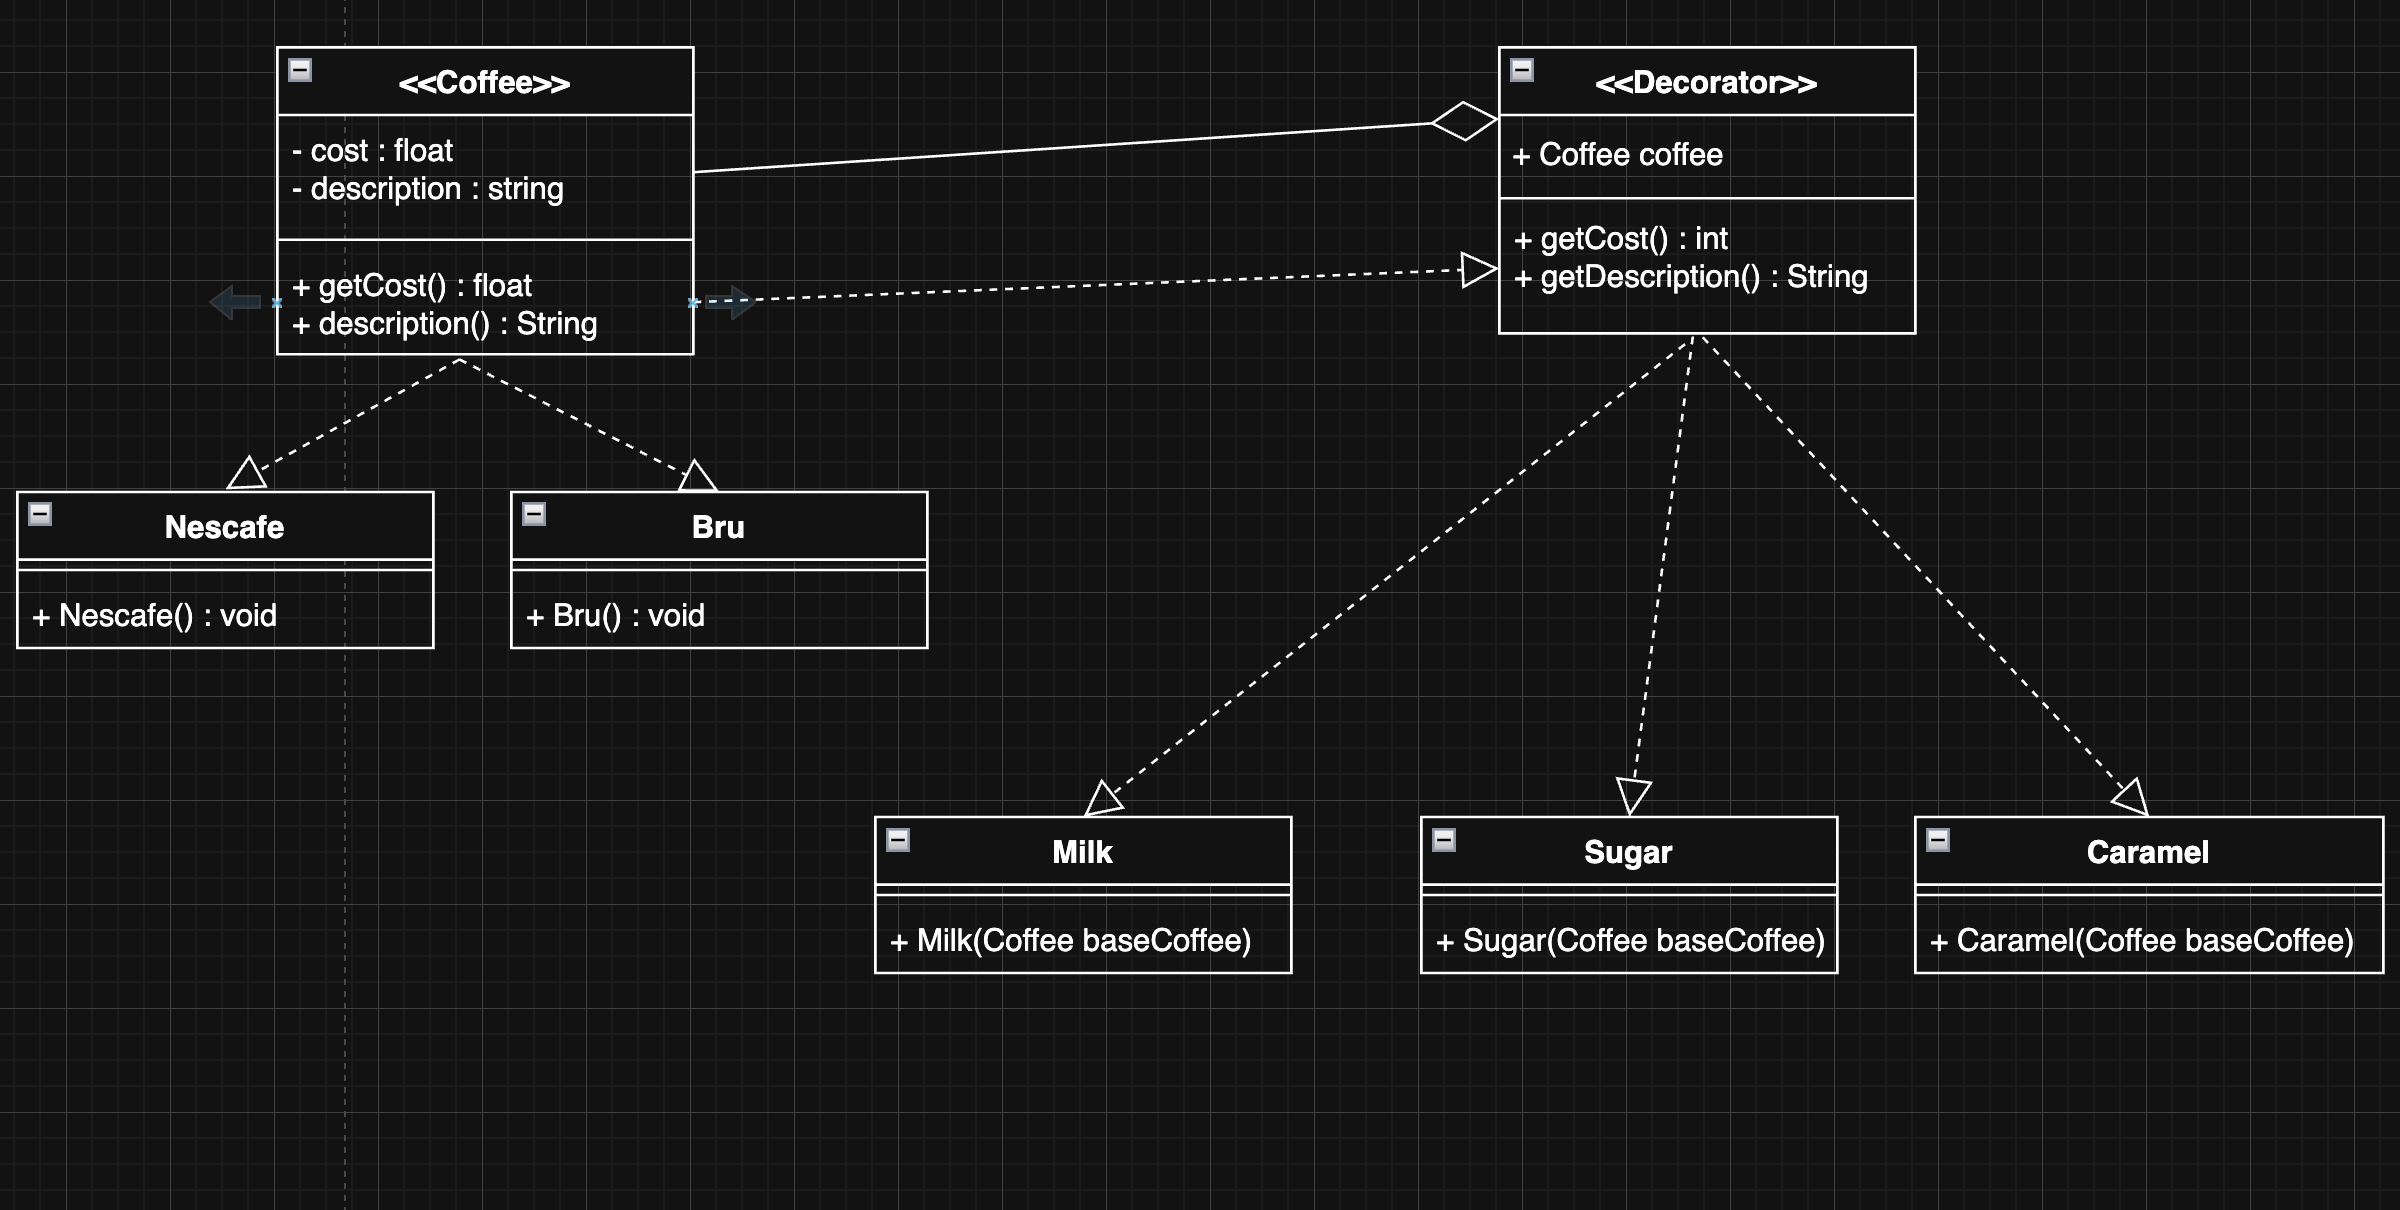
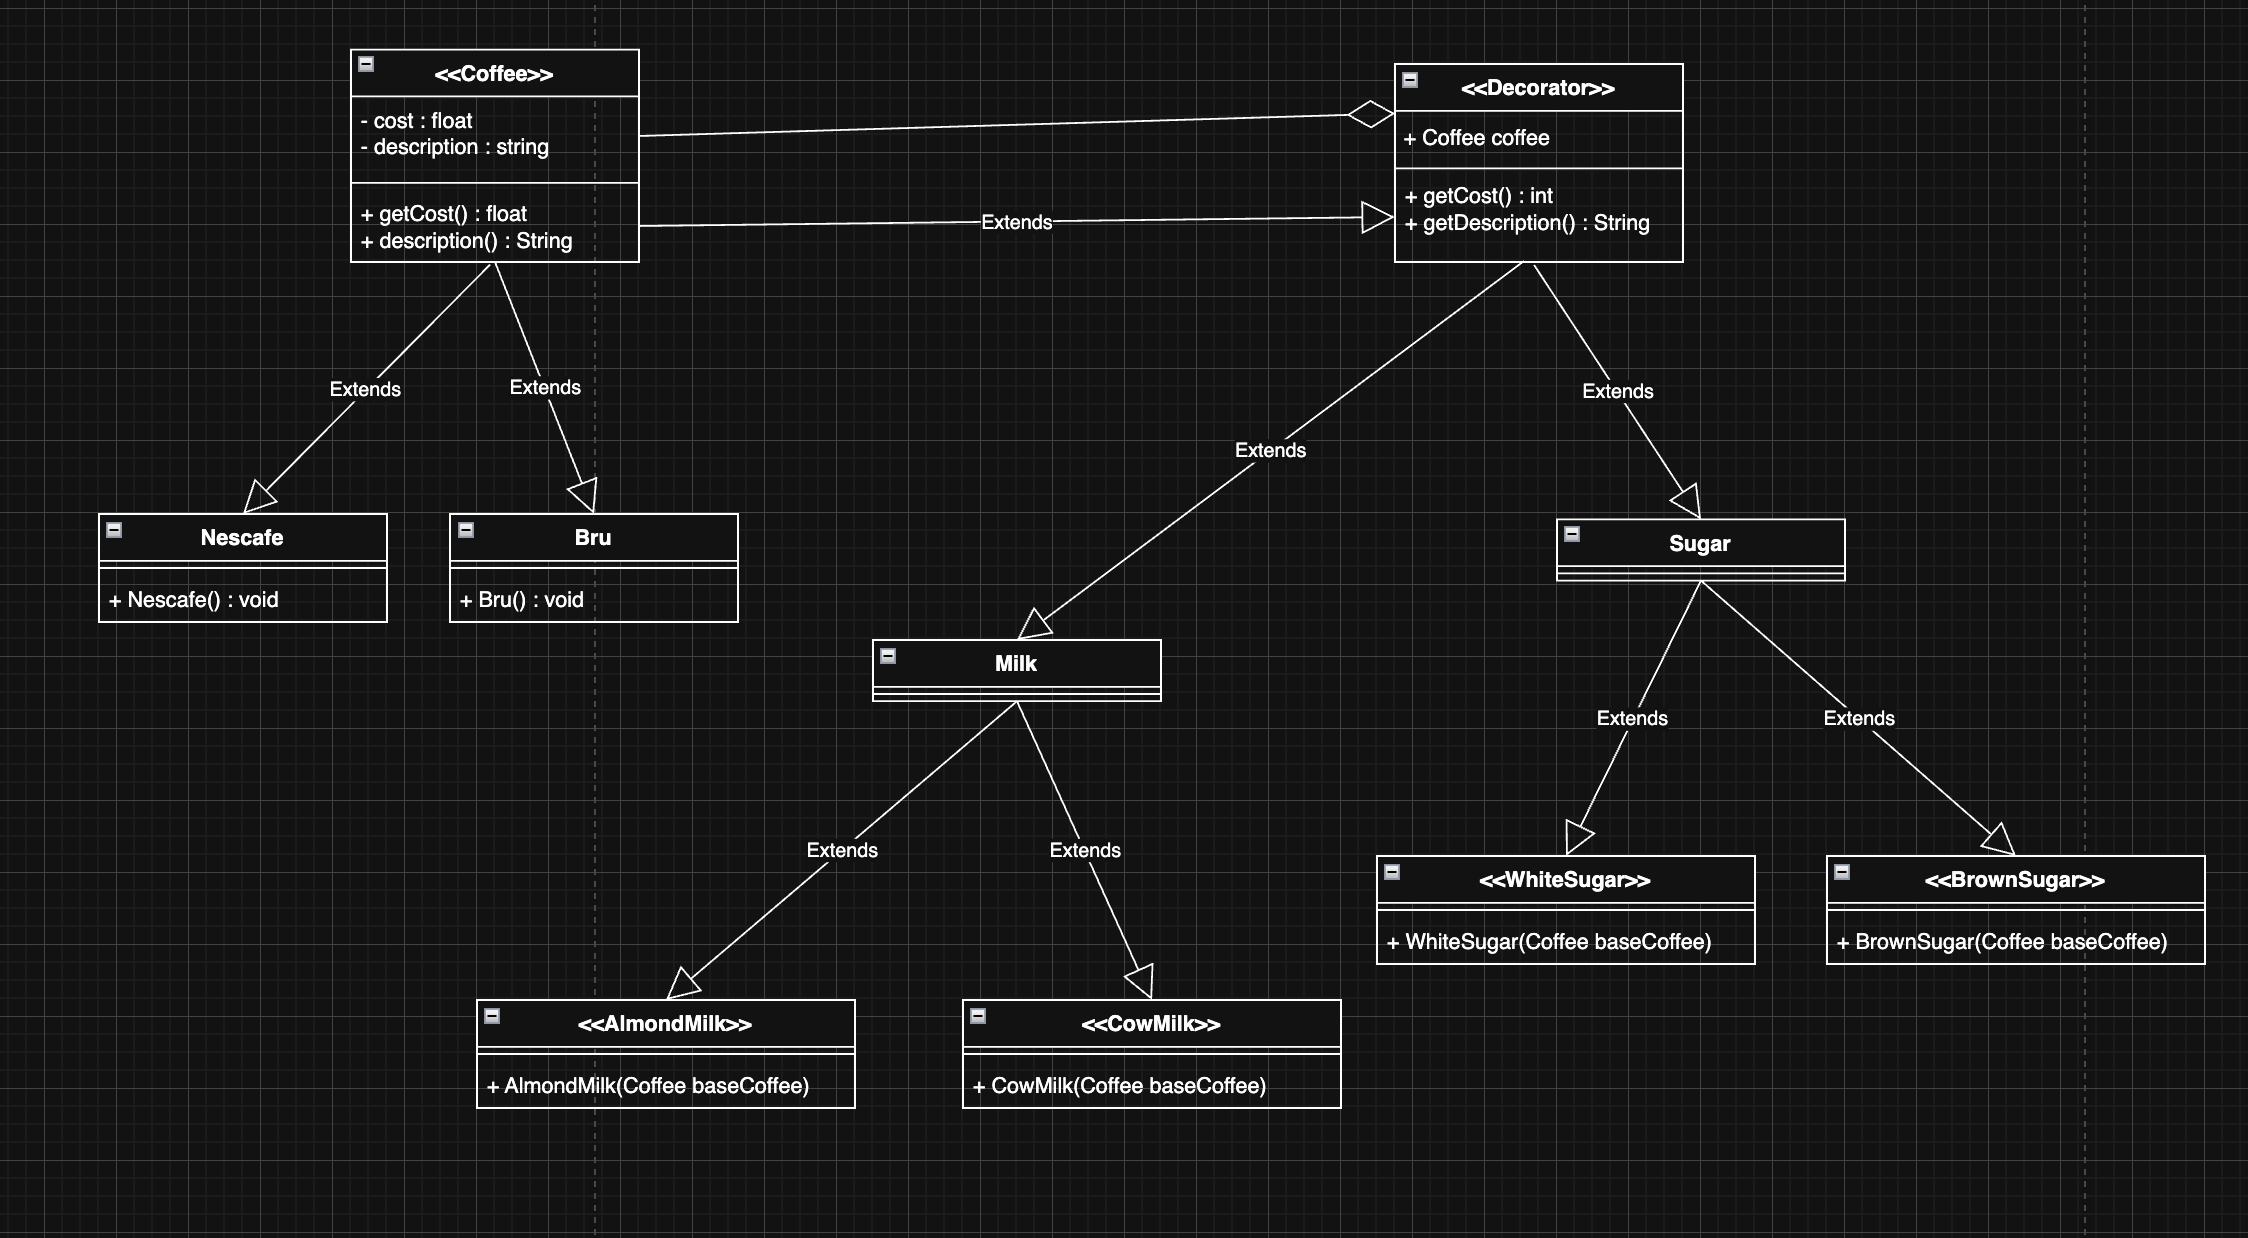
updated decorator pattern

diff --git a/structuralPattern/decoratorPattern/basicImplementation/solution/solution.java b/structuralPattern/decoratorPattern/basicImplementation/solution/solution.java
@@ -2,8 +2,10 @@ package structuralPattern.decoratorPattern.basicImplementation.solution;
 
 import structuralPattern.decoratorPattern.basicImplementation.solution.coffee.Coffee;
 import structuralPattern.decoratorPattern.basicImplementation.solution.coffee.Nescafe;
-import structuralPattern.decoratorPattern.basicImplementation.solution.decorator.Milk;
-import structuralPattern.decoratorPattern.basicImplementation.solution.decorator.Sugar;
+import structuralPattern.decoratorPattern.basicImplementation.solution.decorator.Milk.AlmondMilk;
+import structuralPattern.decoratorPattern.basicImplementation.solution.decorator.Milk.Milk;
+import structuralPattern.decoratorPattern.basicImplementation.solution.decorator.Sugar.BrownSugar;
+import structuralPattern.decoratorPattern.basicImplementation.solution.decorator.Sugar.Sugar;
 
 public class solution {
     public static void main(String[] args) {
@@ -11,10 +13,14 @@ public class solution {
         Coffee base = new Nescafe();
         System.out.println(base.getDescription() + " " + base.getCost());
 
-        Milk extraMilk = new Milk(base);
+        Milk extraMilk = new AlmondMilk(base);
         System.out.println(extraMilk.getDescription() + " " + extraMilk.getCost());
 
-        Sugar extraSugar = new Sugar(extraMilk);
+        Sugar extraSugar = new BrownSugar(extraMilk);
         System.out.println(extraSugar.getDescription() + " " + extraSugar.getCost());
+
+        Milk extraExtraMilk = new AlmondMilk(extraSugar);
+        System.out.println(extraExtraMilk.getDescription() + " " + extraExtraMilk.getCost());
+
     }
 }

diff --git a/structuralPattern/decoratorPattern/basicImplementation/solution/decorator/Sugar/BrownSugar.java b/structuralPattern/decoratorPattern/basicImplementation/solution/decorator/Sugar/BrownSugar.java
@@ -1,0 +1,13 @@
+package structuralPattern.decoratorPattern.basicImplementation.solution.decorator.Sugar;
+
+import structuralPattern.decoratorPattern.basicImplementation.solution.coffee.Coffee;
+
+public class BrownSugar extends Sugar{
+    
+    public BrownSugar(Coffee basCoffee){
+        coffee = basCoffee;
+        cost = 17;
+        description = "Brown Sugar";
+    }
+
+}

diff --git a/structuralPattern/decoratorPattern/basicImplementation/solution/decorator/Sugar/WhiteSugar.java b/structuralPattern/decoratorPattern/basicImplementation/solution/decorator/Sugar/WhiteSugar.java
@@ -1,0 +1,13 @@
+package structuralPattern.decoratorPattern.basicImplementation.solution.decorator.Sugar;
+
+import structuralPattern.decoratorPattern.basicImplementation.solution.coffee.Coffee;
+
+public class WhiteSugar extends Sugar{
+    
+    public WhiteSugar(Coffee basCoffee){
+        coffee = basCoffee;
+        cost = 23;
+        description = "White Sugar";
+    }
+
+}

diff --git a/structuralPattern/decoratorPattern/basicImplementation/solution/decorator/Milk/AlmondMilk.java b/structuralPattern/decoratorPattern/basicImplementation/solution/decorator/Milk/AlmondMilk.java
@@ -1,0 +1,11 @@
+package structuralPattern.decoratorPattern.basicImplementation.solution.decorator.Milk;
+
+import structuralPattern.decoratorPattern.basicImplementation.solution.coffee.Coffee;
+
+public class AlmondMilk extends Milk{
+    public AlmondMilk(Coffee basecoffee) {
+        coffee = basecoffee;
+        cost = 30;
+        description = "Almond Milk";
+    }
+}

diff --git a/structuralPattern/decoratorPattern/basicImplementation/solution/decorator/Milk/CowMilk.java b/structuralPattern/decoratorPattern/basicImplementation/solution/decorator/Milk/CowMilk.java
@@ -1,0 +1,13 @@
+package structuralPattern.decoratorPattern.basicImplementation.solution.decorator.Milk;
+
+import structuralPattern.decoratorPattern.basicImplementation.solution.coffee.Coffee;
+
+public class CowMilk extends Milk{
+
+    public CowMilk(Coffee basecoffee) {
+        coffee = basecoffee;
+        cost = 26;
+        description = "Cow Milk";
+    }
+
+}

diff --git a/structuralPattern/decoratorPattern/basicImplementation/solution/decorator/BaseDecorator.java b/structuralPattern/decoratorPattern/basicImplementation/solution/decorator/BaseDecorator.java
@@ -3,7 +3,7 @@ package structuralPattern.decoratorPattern.basicImplementation.solution.decorato
 import structuralPattern.decoratorPattern.basicImplementation.solution.coffee.Coffee;
 
 public abstract class BaseDecorator extends Coffee{
-    Coffee coffee;
+    protected Coffee coffee;
 
     @Override
     public int getCost() {

diff --git a/structuralPattern/decoratorPattern/basicImplementation/solution/decorator/Milk/Milk.java b/structuralPattern/decoratorPattern/basicImplementation/solution/decorator/Milk/Milk.java
@@ -1,0 +1,7 @@
+package structuralPattern.decoratorPattern.basicImplementation.solution.decorator.Milk;
+
+import structuralPattern.decoratorPattern.basicImplementation.solution.decorator.BaseDecorator;
+
+public class Milk extends BaseDecorator{
+    
+}

diff --git a/structuralPattern/decoratorPattern/basicImplementation/solution/decorator/Sugar/Sugar.java b/structuralPattern/decoratorPattern/basicImplementation/solution/decorator/Sugar/Sugar.java
@@ -1,0 +1,7 @@
+package structuralPattern.decoratorPattern.basicImplementation.solution.decorator.Sugar;
+
+import structuralPattern.decoratorPattern.basicImplementation.solution.decorator.BaseDecorator;
+
+public class Sugar extends BaseDecorator {
+
+}
